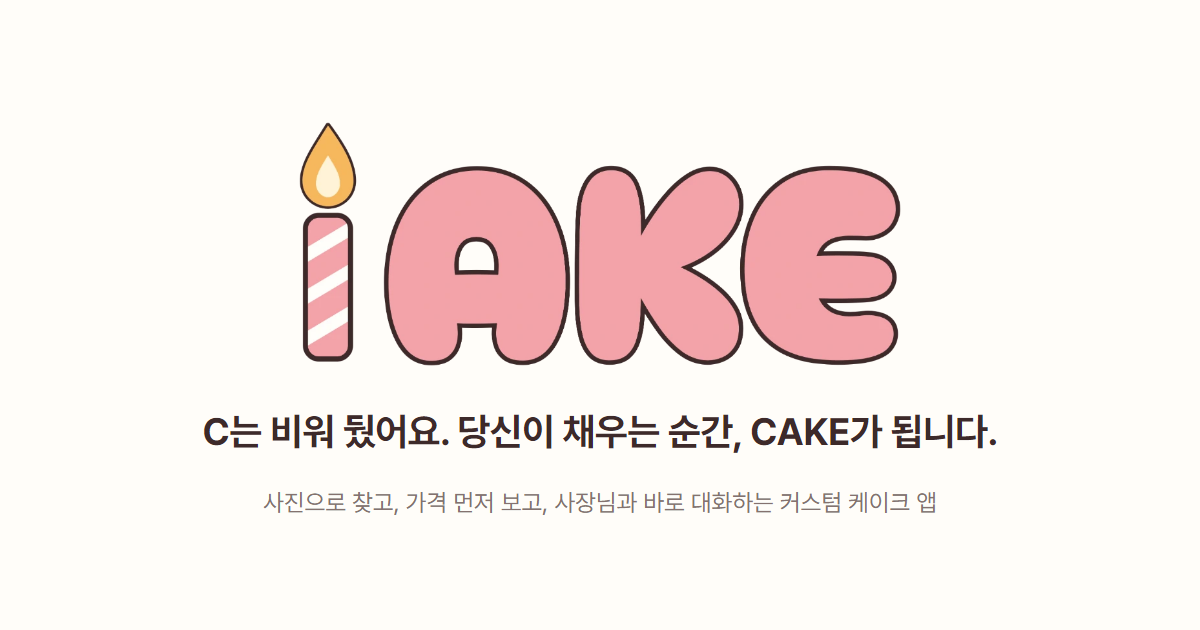
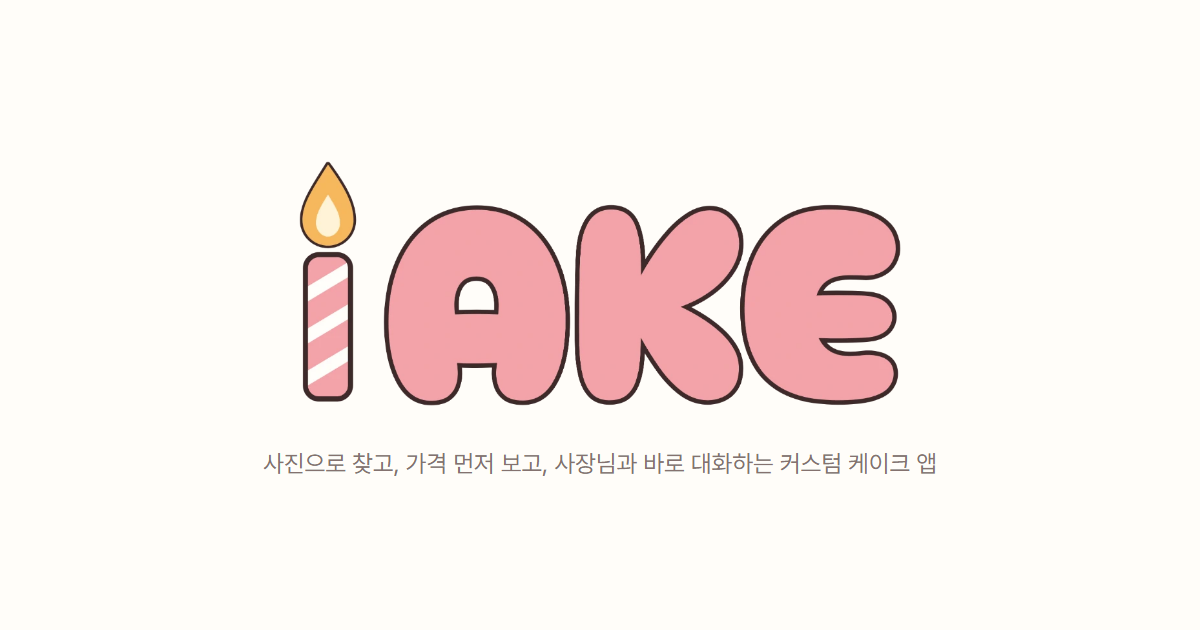
오프닝 iAKE 아래 문장 빼기, 첫 화면·공유 미리보기에서 'C는 비워 뒀어요' 문장 빼기

Changed region(s): [[0.1542, 0.181, 0.8325, 0.754], [0.2158, 0.7841, 0.8017, 0.8143], [0.2467, 0.4524, 0.2775, 0.4825]]

diff --git a/src/screens/Start.jsx b/src/screens/Start.jsx
@@ -14,7 +14,6 @@ const SP_STARS = [
 ];
 const easeInBack = (t) => { const c1 = 1.70158, c3 = c1 + 1; return c3 * t * t * t - c1 * t * t; };
 const yank = (T, start) => { if (T <= start) return 0; if (T >= start + 0.55) return 600; return 600 * easeInBack((T - start) / 0.55); };
-const LOADING = '로딩중입니다...'.split('');
 
 export function Splash({ out, onSkip }) {
   const [T, setT] = useState(0);
@@ -35,9 +34,6 @@ export function Splash({ out, onSkip }) {
           <text x="195" y="660" fill="#6b5d54" letterSpacing="2">iAKE</text>
           <text x="195" y="660" filter="url(#sp-wob)" fill="none" stroke="#4a3d36" strokeWidth="2.6" strokeLinejoin="round" letterSpacing="2">iAKE</text>
         </g>
-        <text x="195" y="818" textAnchor="middle" fill="#6b5d54" style={{ fontFamily: 'Gaegu, sans-serif', fontWeight: 700, fontSize: 20 }}>
-          {LOADING.map((c, i) => <tspan key={i} dy={3.2 * (Math.sin(T * 6 - i * 0.7) - (i ? Math.sin(T * 6 - (i - 1) * 0.7) : 0))}>{c}</tspan>)}
-        </text>
         <g filter="url(#sp-wob)" stroke="#3a2f2a" strokeWidth="1.4" strokeLinejoin="round">
           {SP_STARS.map((s, k) => <g key={k} transform={`translate(${s.x} ${s.y}) rotate(${s.r}) scale(${s.s})`}><use href="#sp-star" fill={s.c} /></g>)}
         </g>

diff --git a/src/App.jsx b/src/App.jsx
@@ -117,7 +117,7 @@ export default function App() {
     <div className="desk">
       <aside className="desk-info">
         <Logo h={64} />
-        <p className="sub">당신이 채우는 순간, CAKE가 됩니다.<br /><span style={{ fontSize: 15 }}>손님과 사장님이 한 앱에서 찾기부터 주문까지 끝내요.</span></p>
+        <p className="sub">손님과 사장님이 한 앱에서 찾기부터 주문까지 끝내요.</p>
         <div className="qr">
           <QR text={appUrl} size={112} />
           <div className="small"><b>핸드폰으로 열어 보세요</b><br /><span className="muted">카메라로 QR을 찍으면 앱이 열려요. 홈 화면에 추가하면 앱처럼 설치돼요.</span></div>
